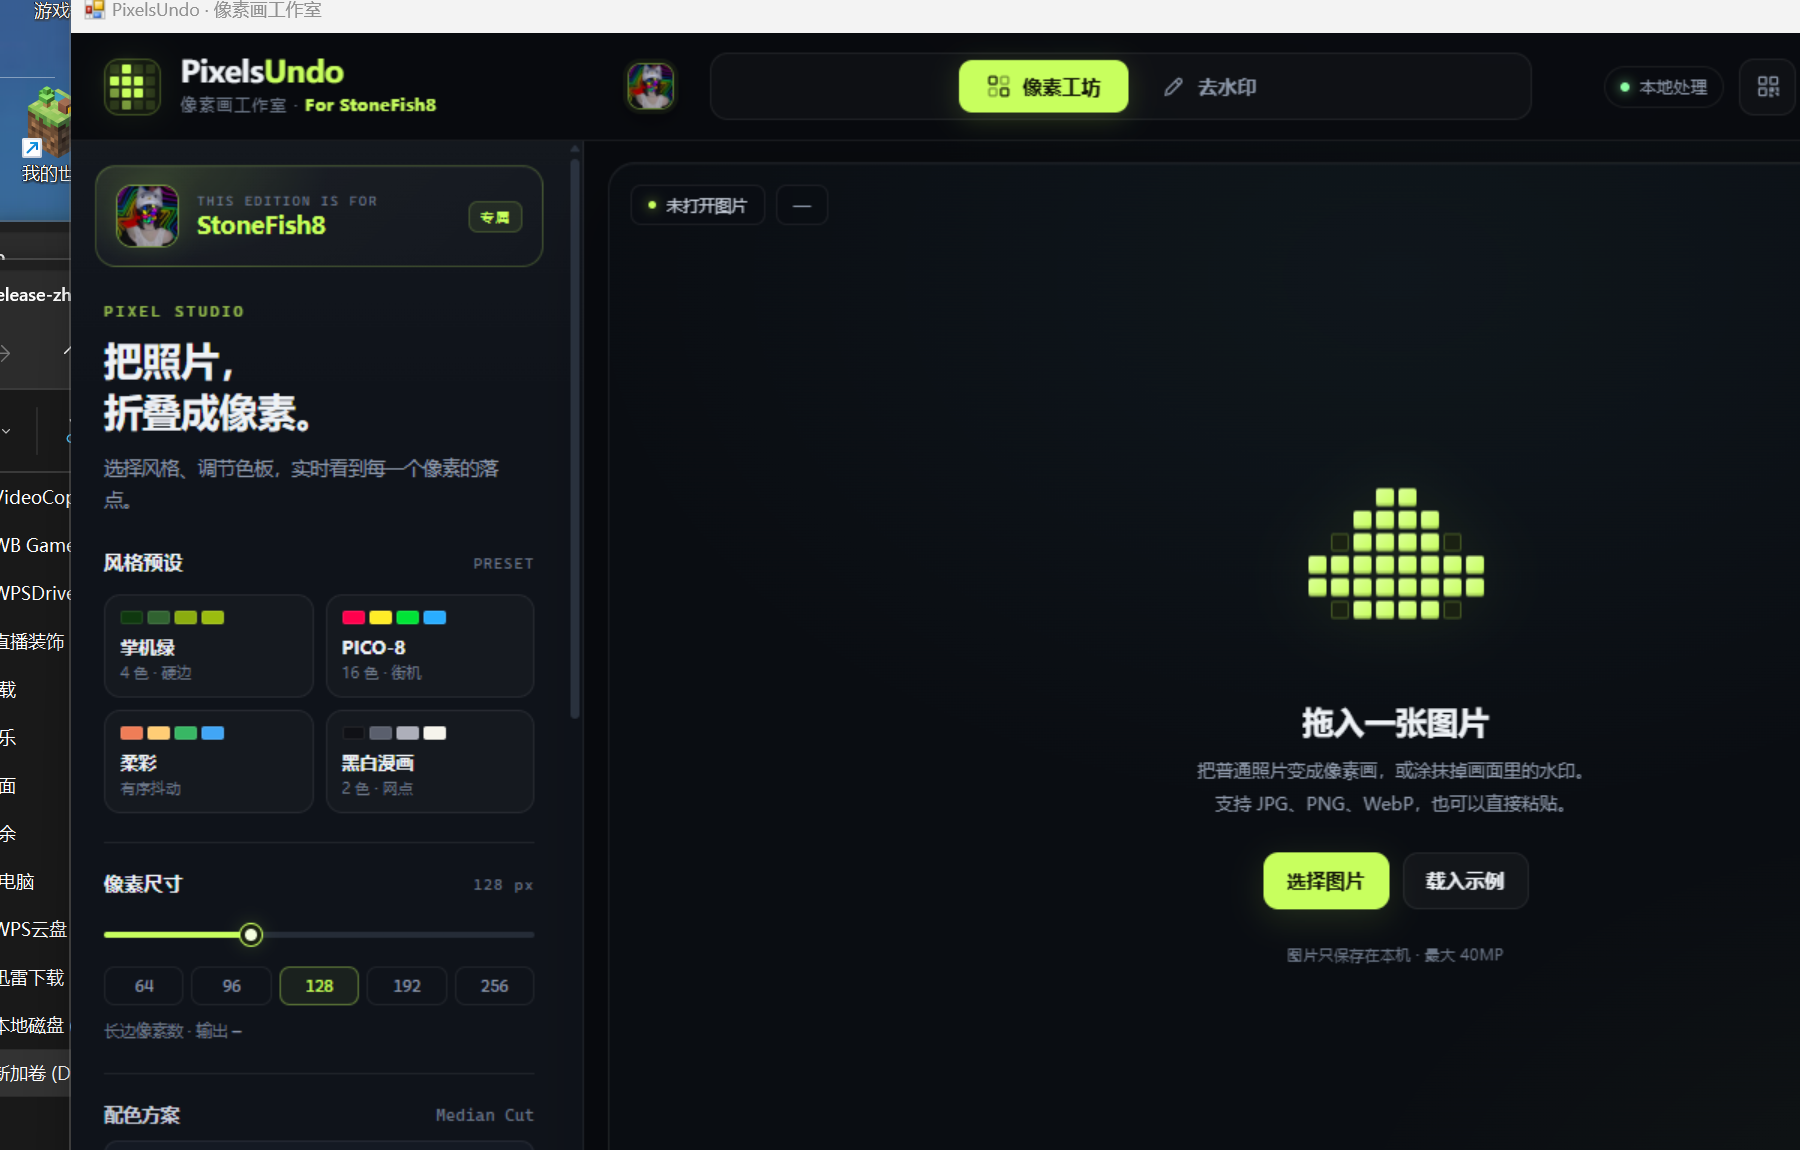
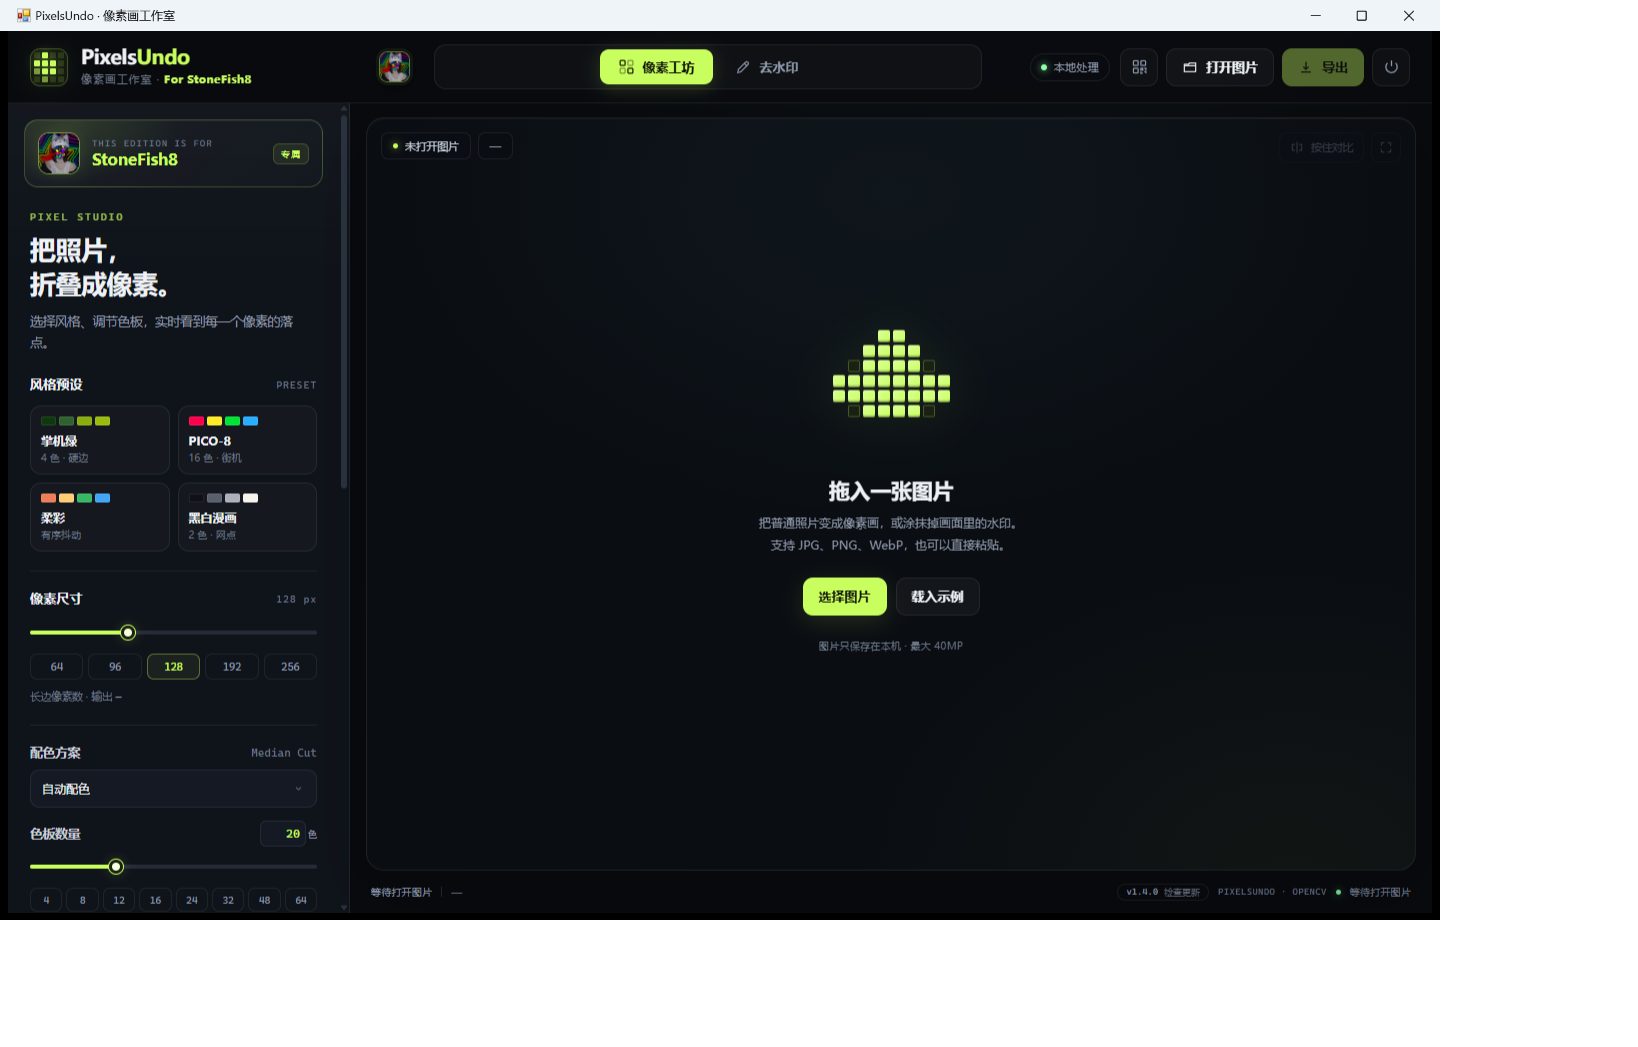
Release 1.4.0: LaMa AI inpainting, better masks and native bundle

diff --git a/site/index.html b/site/index.html
@@ -91,7 +91,7 @@ footer .mono{font-family:var(--mono);letter-spacing:.06em}
     </div>
     <div class="hero-card">
       <img src="assets/pixel.png" alt="PixelsUndo 像素工坊界面">
-      <span class="tag">v1.3.0 · INDEPENDENT WINDOW</span>
+      <span class="tag">v1.4.0 · LAMA AI REPAIR</span>
     </div>
   </header>
 
@@ -101,7 +101,7 @@ footer .mono{font-family:var(--mono);letter-spacing:.06em}
     <div class="grid">
       <article class="card"><div class="ico">▦</div><h3>像素画引擎</h3><p>长边 16–512 像素，7 套配色、3 种抖动、描边强度，以及饱和度 / 对比度 / 亮度微调。右侧实时预览，导出 NEAREST 放大的清晰 PNG。</p></article>
       <article class="card"><div class="ico">◐</div><h3>色阶与调色板</h3><p>输入黑场 / 白场、Gamma、输出黑场 / 白场五段控制；颜色数量 2–64 精确可选，4/8/12/16/24/32/48/64 一键切换，不再“看起来差不多”。</p></article>
-      <article class="card"><div class="ico">✦</div><h3>画笔去水印</h3><p>画笔、橡皮、智能选取三种蒙版工具，OpenCV Telea / Navier-Stokes 内容识别修复，支持撤销重做和按住查看修复前。</p></article>
+      <article class="card"><div class="ico">✦</div><h3>LaMa AI 修复</h3><p>大面积半透明水印交给 LaMa 深度学习补全，天空、山脊、水面会按周围结构重建；也保留内容识别与 Telea 作为轻量回退。支持撤销重做和按住查看修复前。</p></article>
       <article class="card"><div class="ico">⌁</div><h3>手机与 Android App</h3><p>手机打开在线版即可使用，也可以安装 Android App。桌面端仍保留“手机访问”二维码，同一 Wi-Fi 下扫码继续，双指缩放和平移都做了触控适配。</p></article>
       <article class="card"><div class="ico">↻</div><h3>内置检查更新</h3><p>版本号就在状态栏，点一下检查 GitHub Release。发现新版本直接打开下载页，不用自己记版本。</p></article>
       <article class="card"><div class="ico">▣</div><h3>本地或云端，自己选</h3><p>Windows 版全程在本机处理，图片不离开电脑；在线版为了一次性处理而上传到临时目录，服务重启即清空，不建账号、不做长期存储。</p></article>
@@ -115,6 +115,7 @@ footer .mono{font-family:var(--mono);letter-spacing:.06em}
       <figure class="shot"><img src="assets/pixel.png" alt="像素工坊"><figcaption>像素工坊 / 128 × 80 / 20 色</figcaption></figure>
       <figure class="shot"><img src="assets/clean.png" alt="去水印"><figcaption>去水印 / 画笔蒙版 / 内容识别修复</figcaption></figure>
       <figure class="shot wide"><img src="assets/native.png" alt="PixelsUndo 独立桌面窗口"><figcaption>Windows 独立窗口 / 无浏览器地址栏 / 可拖动标题栏</figcaption></figure>
+      <figure class="shot wide"><img src="assets/lama.png" alt="LaMa AI 去水印前后对比"><figcaption>大面积水印：上为原图，下为 LaMa AI 修复</figcaption></figure>
     </div>
   </section>
 
@@ -131,12 +132,16 @@ footer .mono{font-family:var(--mono);letter-spacing:.06em}
   </section>
 
   <footer>
-    <div>PixelsUndo v1.3.0 · For <b>StoneFish8</b><br><span class="mono">PYTHON · OPENCV · VANILLA JS</span></div>
+    <div>PixelsUndo v1.4.0 · For <b>StoneFish8</b><br><span class="mono">PYTHON · OPENCV · VANILLA JS</span></div>
     <div><a href="https://github.com/OStonefishO/PixelsUndo">github.com/OStonefishO/PixelsUndo</a><br><span class="mono">MIRROR · cdn.jsdelivr.net/gh/OStonefishO/PixelsUndo@main/site/</span></div>
   </footer>
 </div>
 </body>
 </html>
+
+
+
+
 
 
 

diff --git a/web/app.js b/web/app.js
@@ -943,10 +943,15 @@
       toast("请先涂抹或选取水印区域", "error");
       return;
     }
-    const slow = els.method.value === "content";
+    const method = els.method.value;
+    const slow = method === "content" || method === "lama";
     showBusy(
       "正在修复画面",
-      slow ? "内容识别正在比对周围纹理，大片水印约需 10–30 秒…" : "读取周围像素并填补水印",
+      method === "lama"
+        ? "LaMa 正在理解画面结构，首次加载模型约 20–40 秒，请保持页面打开…"
+        : slow
+          ? "内容识别正在比对周围纹理，大片水印约需 10–30 秒…"
+          : "读取周围像素并填补水印",
     );
     const maskUrl = state.maskCanvas.toDataURL("image/png");
     try {
@@ -1738,6 +1743,16 @@
       if (health.version) {
         els.versionLabel.textContent = `v${health.version}`;
         els.updateCurrent.textContent = `v${health.version}`;
+      }
+      const lamaOption = els.method.querySelector('option[value="lama"]');
+      if (lamaOption) {
+        lamaOption.disabled = !health.lama;
+        lamaOption.textContent = health.lama
+          ? "AI 修复 · LaMa（最自然，约 30 秒）"
+          : "AI 修复 · LaMa（当前环境未安装模型）";
+        if (!health.lama && els.method.value === "lama") {
+          els.method.value = "content";
+        }
       }
     } catch (error) {
       els.statusEngine.textContent = "PIXELSUNDO";

diff --git a/web/index.html b/web/index.html
@@ -1,4 +1,4 @@
-<!DOCTYPE html>
+<!DOCTYPE html>
 <html lang="zh-CN">
 <head>
 <meta charset="UTF-8" />
@@ -274,7 +274,8 @@
           </div>
           <div class="select-wrap">
             <select id="method">
-              <option value="content" selected>内容识别 · 更自然（较慢）</option>
+              <option value="content">内容识别 · 更自然（较慢）</option>
+              <option value="lama" selected>AI 修复 · LaMa（最自然，约 30 秒）</option>
               <option value="telea">快速扩散 · 秒出</option>
               <option value="ns">平滑扩散 · 柔和</option>
             </select>
@@ -536,3 +537,4 @@
 <script src="/app.js"></script>
 </body>
 </html>
+

diff --git a/pixelsundo/lama.py b/pixelsundo/lama.py
@@ -1,0 +1,143 @@
+# -*- coding: utf-8 -*-
+"""Optional LaMa deep-inpainting backend.
+
+The model is intentionally *not* required: if onnxruntime or the model file is
+missing, the app keeps using the classical repair paths.  Keeping the import
+lazy also keeps the Render/Linux image small.
+"""
+from __future__ import annotations
+
+import os
+import sys
+import threading
+from pathlib import Path
+from typing import Optional
+
+import numpy as np
+
+MODEL_NAME = "lama_fp32.onnx"
+_MODEL_SIZE = 512
+_session = None
+_session_path: Optional[str] = None
+_lock = threading.Lock()
+
+
+def model_path() -> Optional[Path]:
+    """Find the LaMa model next to the app, in the source tree, or via env."""
+    env = os.environ.get("PIXELSUNDO_LAMA", "").strip().strip('"')
+    candidates = []
+    if env:
+        candidates.append(Path(env))
+    if getattr(sys, "frozen", False):
+        candidates.append(Path(sys.executable).resolve().parent / "models" / MODEL_NAME)
+    here = Path(__file__).resolve().parent.parent
+    candidates.extend([
+        here / "models" / MODEL_NAME,
+        Path.cwd() / "models" / MODEL_NAME,
+        Path.cwd() / MODEL_NAME,
+    ])
+    for path in candidates:
+        try:
+            if path.is_file() and path.stat().st_size > 10 * 1024 * 1024:
+                return path
+        except OSError:
+            continue
+    return None
+
+
+def available() -> bool:
+    if model_path() is None:
+        return False
+    try:
+        import onnxruntime  # noqa: F401
+    except Exception:
+        return False
+    return True
+
+
+def _get_session():
+    global _session, _session_path
+    path = model_path()
+    if path is None:
+        raise RuntimeError("找不到 LaMa 模型文件 models/lama_fp32.onnx")
+    key = str(path.resolve())
+    with _lock:
+        if _session is not None and _session_path == key:
+            return _session
+        import onnxruntime as ort
+        opts = ort.SessionOptions()
+        opts.intra_op_num_threads = max(1, min(4, (os.cpu_count() or 4)))
+        opts.inter_op_num_threads = 1
+        opts.graph_optimization_level = ort.GraphOptimizationLevel.ORT_ENABLE_ALL
+        _session = ort.InferenceSession(
+            key, sess_options=opts, providers=["CPUExecutionProvider"]
+        )
+        _session_path = key
+        return _session
+
+
+def _to_uint8(rgb: np.ndarray) -> np.ndarray:
+    arr = rgb.astype(np.float32, copy=False)
+    if float(arr.max(initial=0.0)) <= 2.0:
+        arr = arr * 255.0
+    return np.clip(arr, 0, 255).astype(np.uint8)
+
+
+def inpaint_bgr(bgr: np.ndarray, mask: np.ndarray) -> np.ndarray:
+    """Run LaMa on a square crop around the mask and composite it back.
+
+    The model is fixed at 512x512.  Cropping around the mask keeps far-away
+    detail untouched and gives the model a tighter view of the repair.
+    """
+    import cv2
+
+    h, w = bgr.shape[:2]
+    ys, xs = np.nonzero(mask)
+    if len(xs) == 0:
+        return bgr.copy()
+
+    x0, x1 = int(xs.min()), int(xs.max()) + 1
+    y0, y1 = int(ys.min()), int(ys.max()) + 1
+    margin = max(48, int(0.10 * min(h, w)))
+    cx, cy = (x0 + x1) // 2, (y0 + y1) // 2
+    side = max(x1 - x0, y1 - y0) + margin * 2
+    side = min(max(side, 256), max(h, w))
+    left = max(0, min(w - side, cx - side // 2))
+    top = max(0, min(h - side, cy - side // 2))
+    right, bottom = min(w, left + side), min(h, top + side)
+    crop = bgr[top:bottom, left:right]
+    cmask = mask[top:bottom, left:right]
+
+    # Keep the crop square so the fixed 512x512 model does not distort it.
+    ch, cw = crop.shape[:2]
+    size = max(ch, cw)
+    square = np.zeros((size, size, 3), np.uint8)
+    square_mask = np.zeros((size, size), np.uint8)
+    ox, oy = (size - cw) // 2, (size - ch) // 2
+    square[oy:oy + ch, ox:ox + cw] = crop
+    square_mask[oy:oy + ch, ox:ox + cw] = cmask
+
+    small = cv2.resize(square, (_MODEL_SIZE, _MODEL_SIZE), interpolation=cv2.INTER_AREA)
+    small_mask = cv2.resize(square_mask, (_MODEL_SIZE, _MODEL_SIZE), interpolation=cv2.INTER_NEAREST)
+    rgb = cv2.cvtColor(small, cv2.COLOR_BGR2RGB).astype(np.float32) / 255.0
+    blob = np.transpose(rgb, (2, 0, 1))[None]
+    mblob = (small_mask > 0).astype(np.float32)[None, None]
+
+    session = _get_session()
+    out = session.run(None, {"image": blob, "mask": mblob})[0]
+    pred = _to_uint8(np.transpose(out[0], (1, 2, 0)))
+    pred = cv2.cvtColor(pred, cv2.COLOR_RGB2BGR)
+
+    # Crop away the letterbox before resizing back.  The letterbox lived in
+    # the 1280-ish square, so its offsets must be scaled to the 512 output.
+    ratio = _MODEL_SIZE / float(size)
+    ox_s, oy_s = int(round(ox * ratio)), int(round(oy * ratio))
+    cw_s, ch_s = int(round(cw * ratio)), int(round(ch * ratio))
+    pred = pred[oy_s:oy_s + ch_s, ox_s:ox_s + cw_s]
+    pred = cv2.resize(pred, (cw, ch), interpolation=cv2.INTER_CUBIC)
+    alpha = cv2.GaussianBlur(cmask, (0, 0), max(1.0, min(3.0, min(ch, cw) / 200.0)))
+    alpha = (alpha.astype(np.float32) / 255.0)[..., None]
+    blended = pred.astype(np.float32) * alpha + crop.astype(np.float32) * (1.0 - alpha)
+    result = bgr.copy()
+    result[top:bottom, left:right] = np.clip(blended, 0, 255).astype(np.uint8)
+    return result

diff --git a/server.py b/server.py
@@ -72,6 +72,14 @@ if _bundled_samples.is_dir() and _bundled_samples.resolve() != SAMPLE_DIR.resolv
                 pass
 
 
+def _lama_available() -> bool:
+    try:
+        from pixelsundo import lama
+        return bool(lama.available())
+    except Exception:
+        return False
+
+
 def lan_addresses():
     """Return usable IPv4 addresses for this machine, outbound first."""
     found = []
@@ -427,6 +435,7 @@ class PixelsUndoHandler(BaseHTTPRequestHandler):
                 "ok": True,
                 "version": __version__,
                 "opencv": repair.has_opencv(),
+                "lama": _lama_available(),
                 "lan": net["lan"],
                 "lanUrl": net["primary"] if net["lan"] else "",
             })
@@ -555,6 +564,8 @@ class PixelsUndoHandler(BaseHTTPRequestHandler):
             raise ApiError("请先涂抹或选取要修复的区域")
         method = str(payload.get("method") or "telea")
         radius = int(payload.get("radius") or 6)
+        if method == "lama" and not _lama_available():
+            raise ApiError("当前环境未安装 LaMa 模型，请改用“内容识别”，或把 models/lama_fp32.onnx 放到程序目录。")
         repaired = repair.inpaint(image, mask_image, method=method, radius=radius)
 
         history = list(meta["history"])

diff --git a/pixelsundo/inpaint.py b/pixelsundo/inpaint.py
@@ -210,6 +210,15 @@ def inpaint(image: Image.Image, mask: Image.Image, method: str = "telea",
     bgr = cv2.cvtColor(np.asarray(rgb), cv2.COLOR_RGB2BGR)
     if method == "content":
         repaired = _content_inpaint(bgr, prepared, radius)
+    elif method == "lama":
+        try:
+            from .lama import available, inpaint_bgr
+            if not available():
+                raise RuntimeError("LaMa model is not installed")
+            repaired = inpaint_bgr(bgr, prepared)
+        except Exception:
+            # The model is optional; keep the editor usable without it.
+            repaired = _content_inpaint(bgr, prepared, radius)
     else:
         flag = cv2.INPAINT_NS if method == "ns" else cv2.INPAINT_TELEA
         repaired = cv2.inpaint(bgr, prepared, max(2, min(24, int(radius))), flag)

diff --git a/pixelsundo/__init__.py b/pixelsundo/__init__.py
@@ -1,4 +1,5 @@
-"""PixelsUndo core package."""
+"""PixelsUndo core package."""
 
-__version__ = "1.3.0"
+__version__ = "1.4.0"
+
 

diff --git a/README.md b/README.md
@@ -1,4 +1,4 @@
-# PixelsUndo
+# PixelsUndo
 
 **把照片折叠成像素，把水印擦成风景。**
 
@@ -6,13 +6,15 @@
 
 PixelsUndo 是一款像素画 + 去水印小工具：一边把普通照片变成可导出的像素画，一边用画笔/智能选取 + 内容识别修复擦掉水印。它有三种用法：**在线版**打开浏览器就能用；**Windows 版**全程在本机处理；**Android App** 是对在线版的封装，导出图片会存进相册。
 
-> **v1.3.0** · 去水印改为多尺度内容识别（不再糊成一片）、修复半径可调、智能选取支持全图同色；保留独立原生窗口、Android App、在线版、色阶、精确颜色数量与内置检查更新。
+> **v1.4.0** · 新增 LaMa AI 修复（大面积水印最自然）、内容识别/Telea/NS 三种回退、修复半径可调、全图同色智能选取；保留独立原生窗口、Android App、在线版、色阶与检查更新。
 
 | 像素工坊 | 去水印 |
 | --- | --- |
 | ![像素工坊](docs/screenshot-pixel.png) | ![去水印](docs/screenshot-clean.png) |
 
 ![PixelsUndo 独立窗口](docs/screenshot-native.png)
+
+![LaMa AI 去水印对比](docs/lama-compare.png)
 
 ### 内容识别修复对比
 
@@ -30,7 +32,7 @@ PixelsUndo 是一款像素画 + 去水印小工具：一边把普通照片变成
 
 ## 下载 Windows 版
 
-打开 [Releases](https://github.com/OStonefishO/PixelsUndo/releases/latest)，下载 `PixelsUndo-Windows-1.3.0.zip`，解压后双击 **`启动 PixelsUndo.bat`**。它会打开一个独立的软件窗口（带标题栏，没有浏览器地址栏），不会跳到浏览器。
+打开 [Releases](https://github.com/OStonefishO/PixelsUndo/releases/latest)，下载 `PixelsUndo-Windows-1.4.0.zip`，解压后双击 **`启动 PixelsUndo.bat`**。它会打开一个独立的软件窗口（带标题栏，没有浏览器地址栏），不会跳到浏览器。
 
 > 启动器会把约 1 MB 的窗口宿主复制到 `%TEMP%` 再启动，以绕开 WebView2 对中文路径的限制；`PixelsUndo-app` 数据仍留在解压目录。请保持压缩包内目录结构完整，不要只复制 exe。
 
@@ -122,7 +124,7 @@ PixelsUndo 是一款像素画 + 去水印小工具：一边把普通照片变成
 1. 用 **画笔** 涂满水印，或用 **智能选取** 点一下水印颜色；容差可调。重复平铺的半透明水印可勾选 **全图同色**，一次选中所有相近色块。
 2. 需要时用 **橡皮** 修整蒙版；`[` / `]` 调整笔刷大小。
 3. 选择修复算法：
-   - **内容识别 · 更自然（较慢）**：多尺度纹理合成，会从周围寻找相似的云、水纹、墙面来补洞，不再把整片区域抹成一片糊。大片水印约 10–30 秒。
+   - **AI 修复 · LaMa（最自然，约 30 秒）**：深度学习补全，最适合大面积半透明水印；需要 `models/lama_fp32.onnx`（Windows 完整包已内置，源码运行请按 `models/README.md` 下载）。\n   - **内容识别 · 更自然（较慢）**：多尺度纹理合成，从周围寻找相似的云、水纹、墙面来补洞，不需要模型，约 10–20 秒。
    - **快速扩散 · 秒出**：Telea，适合小划痕、纯色背景。
    - **平滑扩散 · 柔和**：NS，适合渐变色块。
 4. **修复半径** 控制蒙版外扩与边缘羽化：值越大，边缘过渡越柔和、修复范围略大。
@@ -225,6 +227,10 @@ cd PixelsUndo
 ## 隐私
 
 所有图片仅保存在本机 `data/sessions`，不会上传到任何第三方服务。电脑端默认只监听本机；启动脚本会同时开启局域网访问，方便同一 Wi-Fi 下的手机使用。手机访问没有登录校验，退出程序后局域网入口随服务一起关闭。退出程序后可手动删除 `data/sessions` 清空记录。云端部署时请设置 `PIXELSUNDO_PASSWORD`，否则任何拿到网址的人都能使用该实例。
+
+
+
+
 
 
 

diff --git a/models/README.md b/models/README.md
@@ -1,0 +1,11 @@
+# LaMa 模型（可选）
+
+`lama_fp32.onnx` 不放进 Git 仓库（约 208 MB）。下载后放在本目录：
+
+```
+models/lama_fp32.onnx
+```
+
+来源：https://hf-mirror.com/Carve/LaMa-ONNX/resolve/main/lama_fp32.onnx
+
+没有模型时，界面里的 **AI 修复 · LaMa** 会自动禁用，其他修复算法不受影响。
